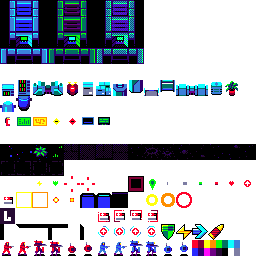
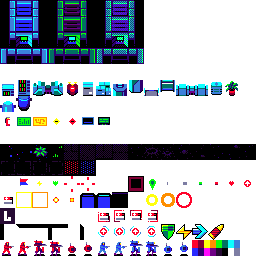
update

Changed region(s): [[0.25, 0.625, 0.375, 0.6875], [0.0625, 0.6875, 0.125, 0.7188]]

diff --git a/game/unit/unit.go b/game/unit/unit.go
@@ -93,3 +93,26 @@ embedded_components {
     w: 1.0
   }
 }
+embedded_components {
+  id: "flag"
+  type: "sprite"
+  data: "default_animation: \"flag\"\n"
+  "material: \"/builtins/materials/sprite.material\"\n"
+  "blend_mode: BLEND_MODE_ALPHA\n"
+  "textures {\n"
+  "  sampler: \"texture_sampler\"\n"
+  "  texture: \"/game/core/16.tilesource\"\n"
+  "}\n"
+  ""
+  position {
+    x: -6.0
+    y: 6.0
+    z: 0.9
+  }
+  rotation {
+    x: 0.0
+    y: 0.0
+    z: 0.0
+    w: 1.0
+  }
+}
